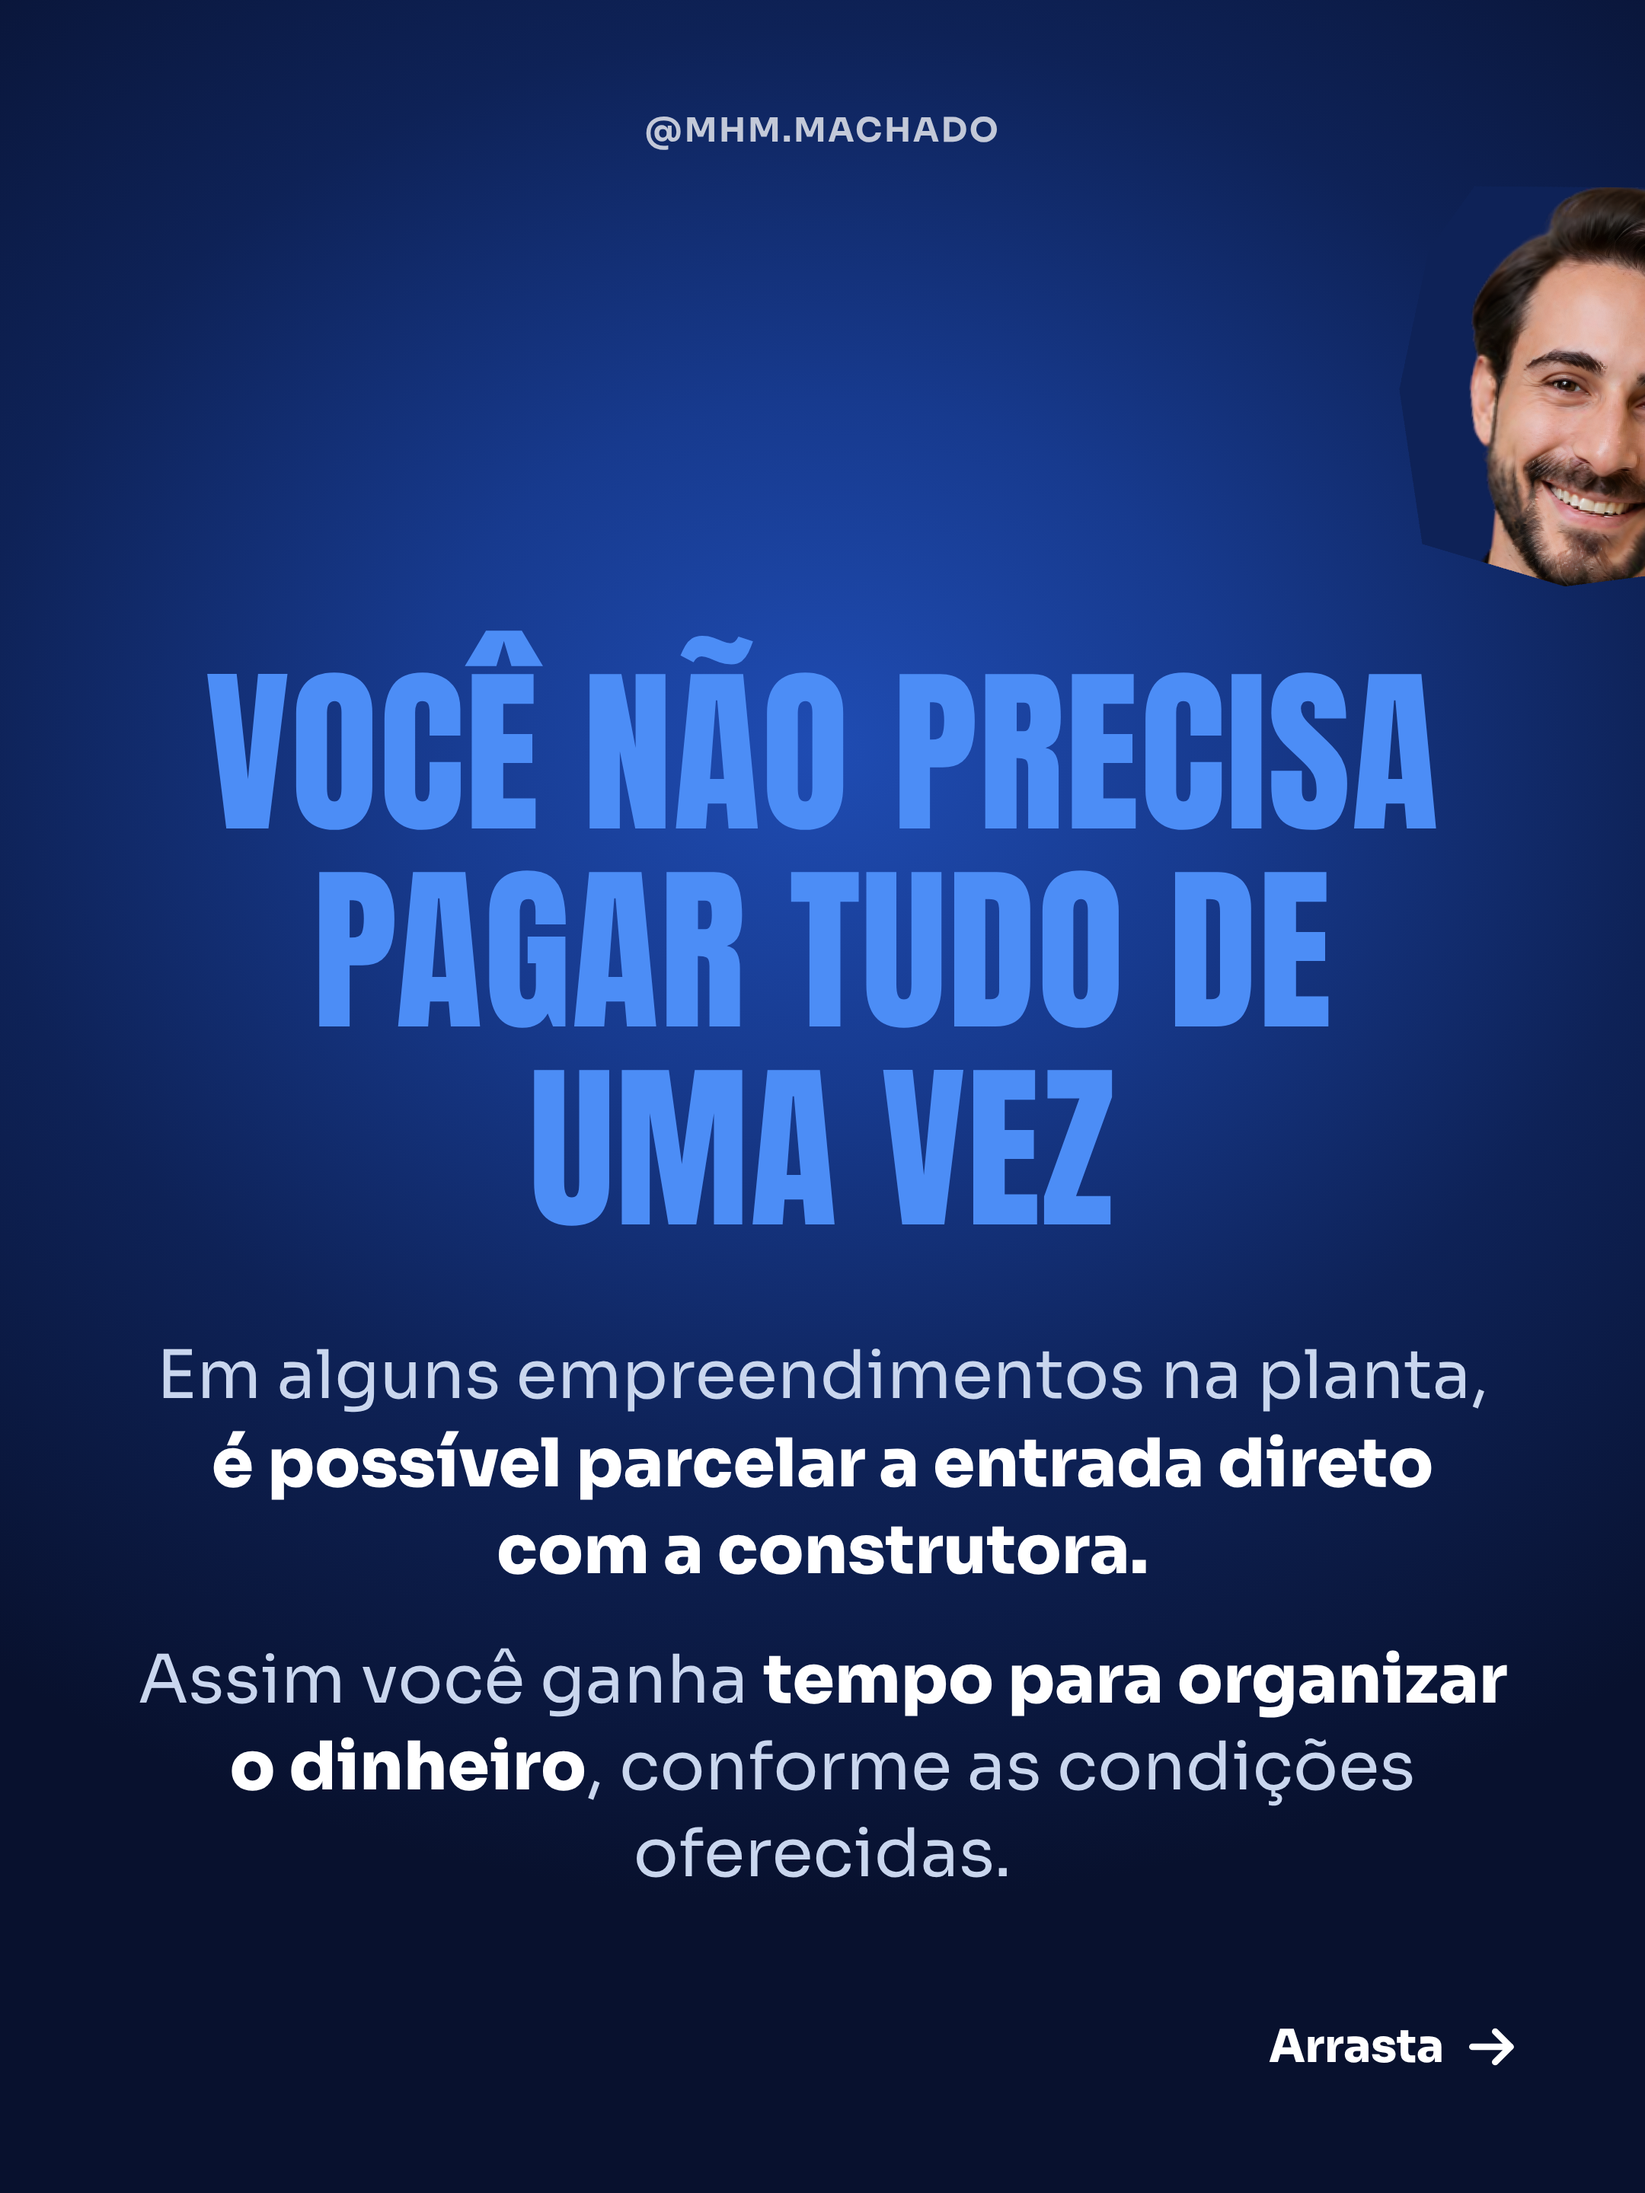
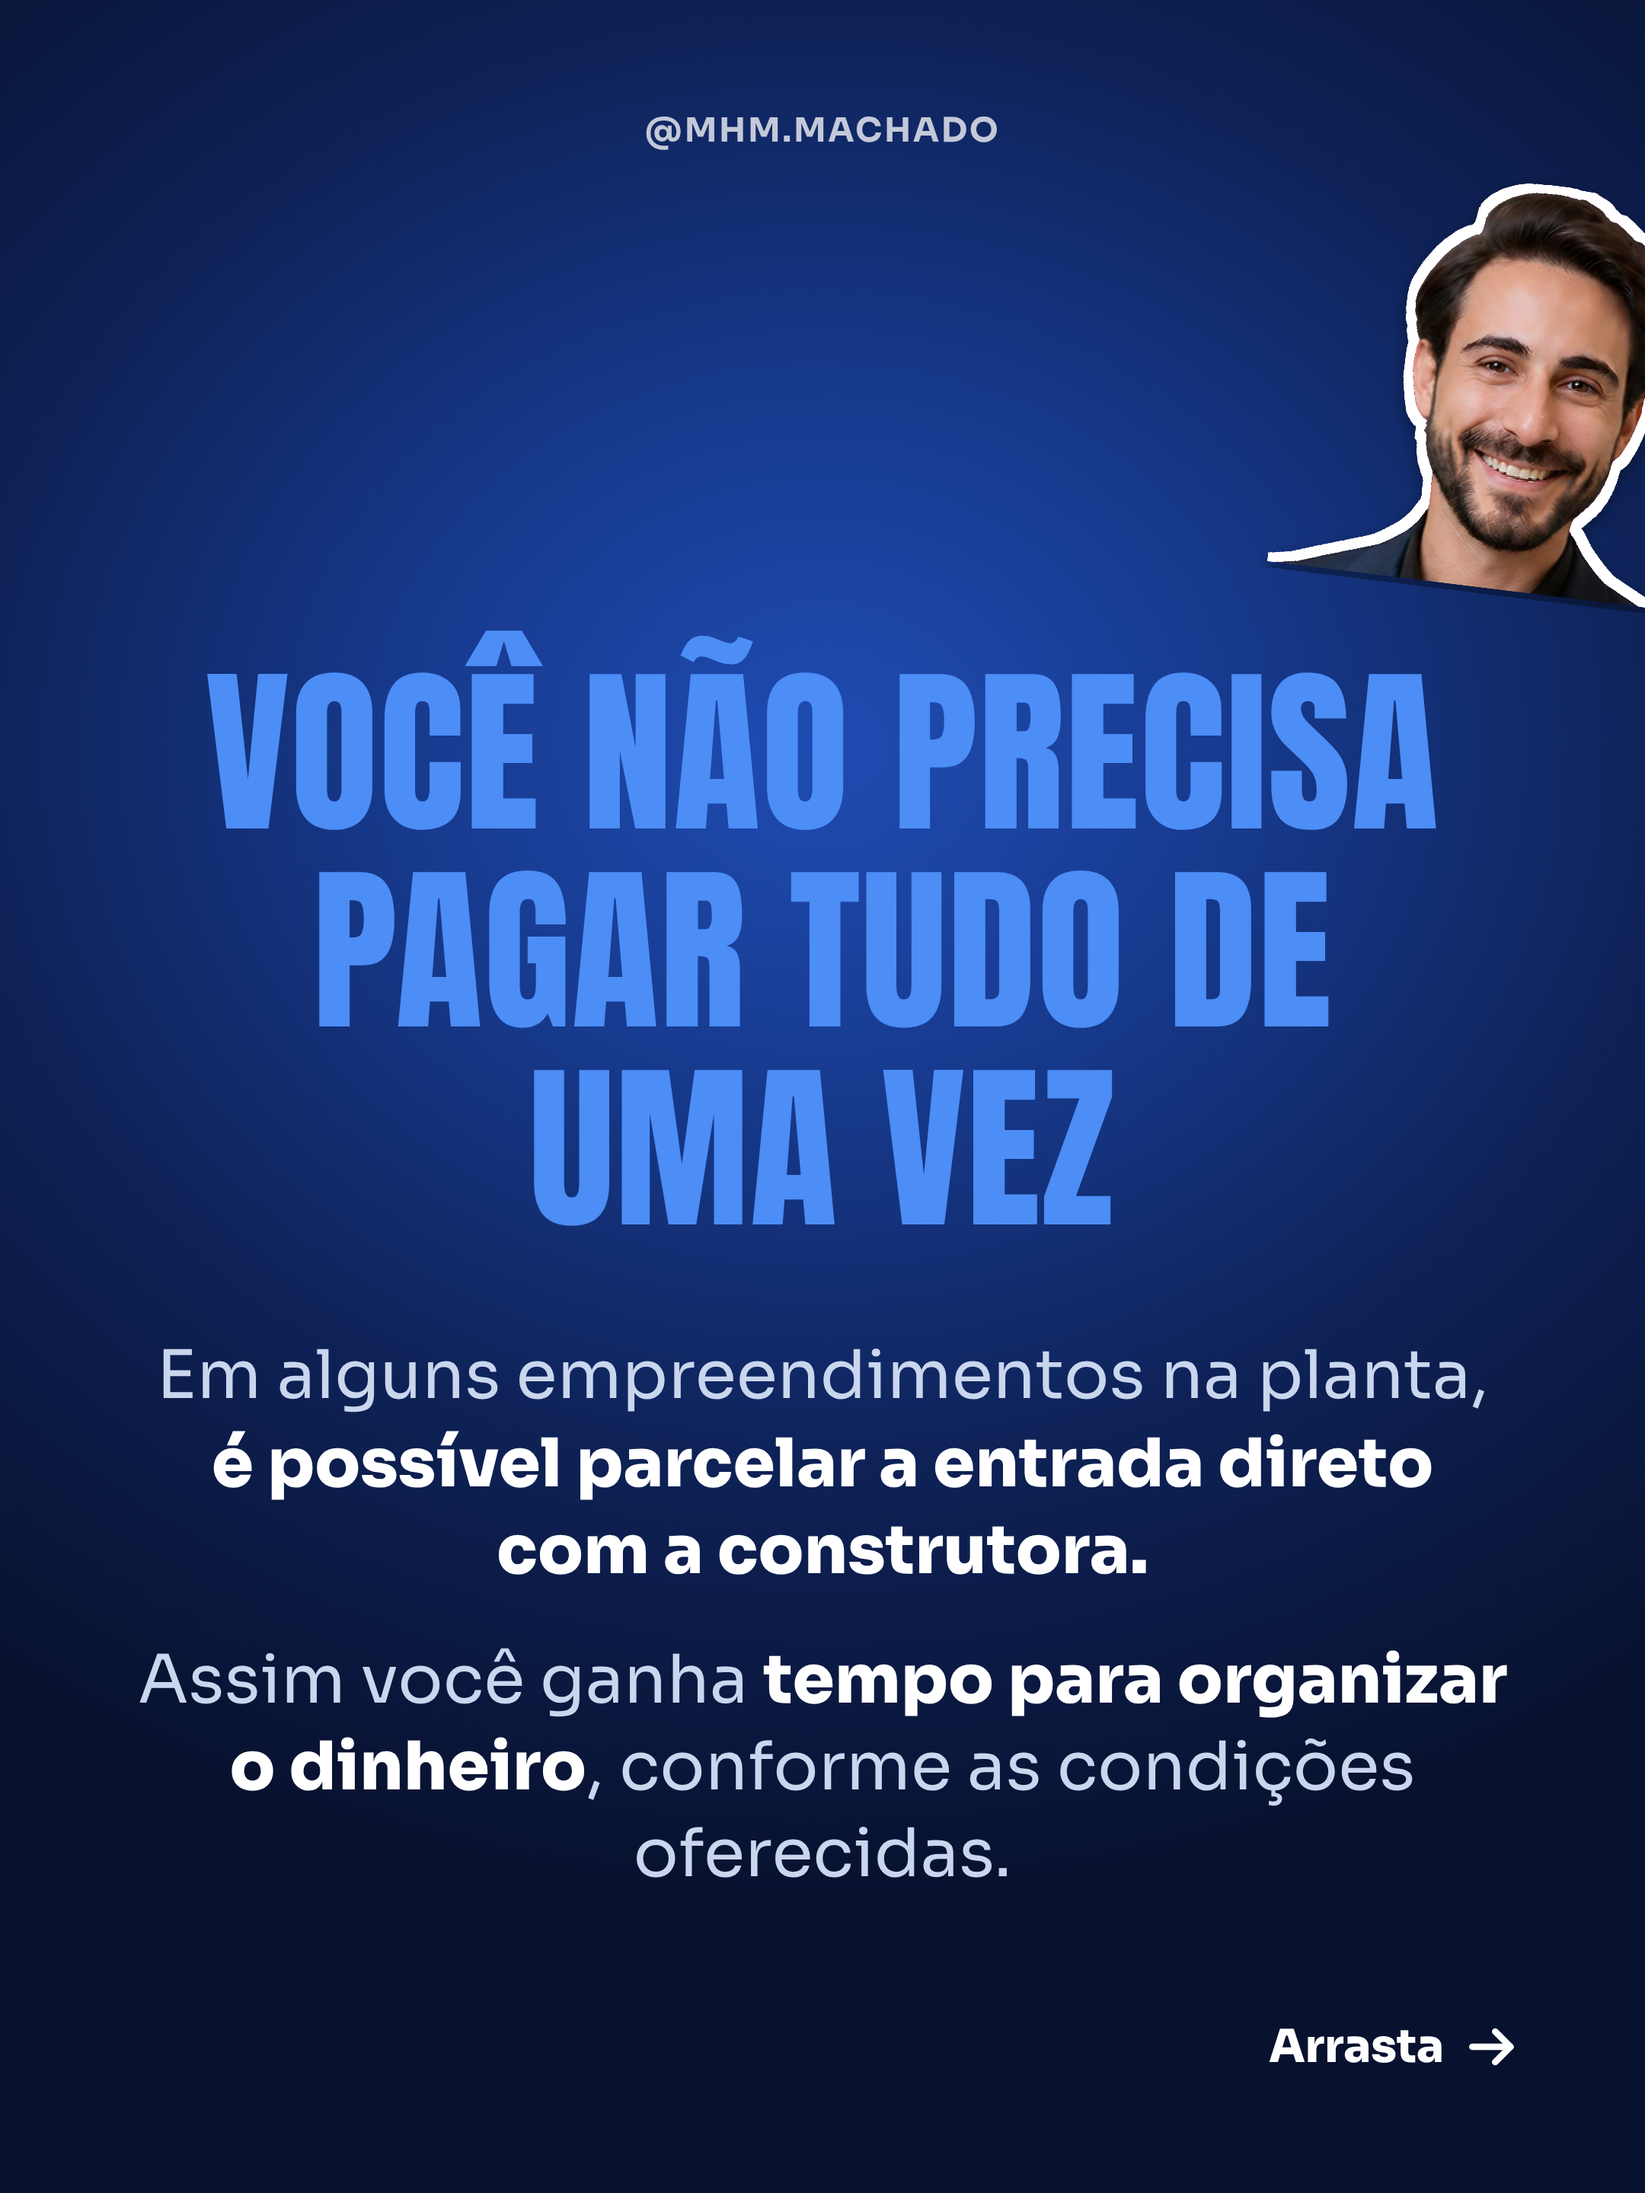
carrossel sem-entrada: capa com céu e cidade + pose pensativo; rostos das lâminas 4/5 refeitos (sem espelhar)
Claude-Session: https://claude.ai/code/session_018X91MFfPMRMPYSAfb3KdfT

Changed region(s): [[0.7755, 0.0625, 1.0, 0.2812]]

diff --git a/docs/posicionamento/carrosseis/2026-11-03-sem-entrada/laminas.html b/docs/posicionamento/carrosseis/2026-11-03-sem-entrada/laminas.html
@@ -23,16 +23,15 @@ p.t{font-size:44px;line-height:1.3;font-weight:400} p.t b{font-weight:800}
 .pose{position:absolute;bottom:0;filter:drop-shadow(0 30px 50px rgba(0,0,0,.4))}
 </style></head><body>
 
-<!-- 1 CAPA -->
+<!-- 1 CAPA (refeita 2026-11-03: céu + cidade como na referência, pose "pensativo") -->
 <section class="lamina">
- <img src="img/cidade.jpg" style="position:absolute;inset:0;width:100%;height:100%;object-fit:cover;filter:saturate(.7) brightness(.85)">
- <div style="position:absolute;inset:0;background:rgba(31,76,179,.35);mix-blend-mode:color"></div>
- <div style="position:absolute;inset:0;background:linear-gradient(180deg,rgba(8,17,46,.35) 0%,rgba(8,17,46,.05) 35%,rgba(8,17,46,.55) 70%,rgba(8,17,46,.95) 100%)"></div>
- <div class="h" style="color:#fff">@MHM.MACHADO</div>
- <img class="pose" src="img/pensando.png" style="left:50%;transform:translateX(-50%);height:1080px;z-index:2">
- <div class="c" style="top:950px;z-index:3;text-shadow:0 6px 30px rgba(0,0,0,.5)">
-  <div class="cond" style="font-size:78px">Como comprar um</div>
-  <div class="cond" style="font-size:190px;line-height:1.0;color:var(--azul)">imóvel sem<br>entrada</div>
+ <img src="img/ceu.jpg" style="position:absolute;inset:0;width:100%;height:100%;object-fit:cover">
+ <div style="position:absolute;inset:0;background:linear-gradient(180deg,rgba(8,17,46,.25) 0%,rgba(8,17,46,0) 25%,rgba(8,17,46,0) 55%,rgba(8,17,46,.6) 78%,rgba(8,17,46,.92) 100%)"></div>
+ <div class="h" style="color:#fff;text-shadow:0 2px 10px rgba(0,0,0,.4)">@MHM.MACHADO</div>
+ <img class="pose" src="img/pensativo.png" style="left:50%;transform:translateX(-50%);height:1220px;z-index:2">
+ <div class="c" style="top:1000px;z-index:3;text-shadow:0 6px 30px rgba(0,0,0,.6)">
+  <div class="cond" style="font-size:72px">Como comprar um</div>
+  <div class="cond" style="font-size:176px;line-height:1.0;color:var(--azul)">imóvel sem<br>entrada</div>
  </div>
 </section>
 
@@ -61,7 +60,7 @@ p.t{font-size:44px;line-height:1.3;font-weight:400} p.t b{font-weight:800}
 <!-- 4 ENTRADA PARCELADA -->
 <section class="lamina">
  <div class="h">@MHM.MACHADO</div>
- <img src="img/rosto-recorte.png" style="position:absolute;right:-90px;top:110px;width:270px;transform:rotate(6deg);z-index:2">
+ <img src="img/sticker-a.png" style="position:absolute;right:-70px;top:90px;width:330px;transform:rotate(7deg);z-index:2">
  <div class="c" style="top:430px">
   <div class="cond" style="font-size:118px;line-height:1.1;color:var(--azul)">Você não precisa pagar tudo de uma vez</div>
   <p class="t" style="margin-top:56px">Em alguns empreendimentos na planta, <b>é possível parcelar a entrada direto com a construtora.</b></p>
@@ -73,7 +72,7 @@ p.t{font-size:44px;line-height:1.3;font-weight:400} p.t b{font-weight:800}
 <!-- 5 SUBSÍDIO -->
 <section class="lamina clara">
  <div class="h">@MHM.MACHADO</div>
- <img src="img/rosto-recorte.png" style="position:absolute;left:-100px;top:110px;width:270px;transform:rotate(-6deg) scaleX(-1);z-index:2">
+ <img src="img/sticker-b.png" style="position:absolute;left:-70px;top:90px;width:330px;transform:rotate(-7deg);z-index:2">
  <img src="img/mcmv-logo-cor.png" style="position:absolute;right:80px;top:150px;width:190px">
  <div class="c" style="top:430px">
   <div class="cond" style="font-size:112px;line-height:1.1">O <span style="color:var(--azulc)">subsídio</span> pode reduzir o valor que você precisa pagar</div>
